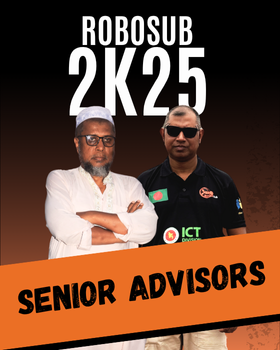
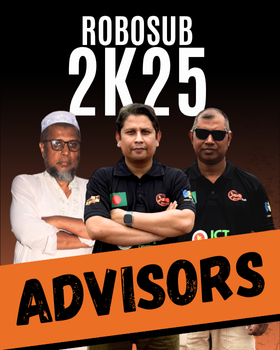
team 1.3

diff --git a/src/components/Team.jsx b/src/components/Team.jsx
@@ -112,8 +112,18 @@ const TeamGrid = styled.div`
 const Team = () => {
   // Team members data organized by sections with additional metadata
   const teamSections = {
-    "Senior Advisor Panel": {
+    "Advisor Panel": {
       members: [
+        {
+          name: "Rasel Ahmed",
+          role: "Advisor",
+          email: "raselahmedcse2012@gmail.com",
+          description: "Assistant Professor at ICT Dept. , Dhaka Residential Model College",
+          github: "NULL",
+          linkedin: "NULL",
+          whatsapp: "https://wa.me/8801720210229",
+          image: "/assets/team/4.png"
+        },
         {
           name: "Prof. Golam Kader",
           role: "Advisor",
@@ -122,7 +132,7 @@ const Team = () => {
           github: "https://github.com/johndoe",
           linkedin: "https://linkedin.com/in/johndoe",
           whatsapp: "https://wa.me/1234567890",
-          image: "/assets/team/3.png"
+          image: "/assets/team/7.png"
         },
         {
           name: "Jahedul Hoque",
@@ -138,18 +148,8 @@ const Team = () => {
       description: "Our leadership team drives the vision and strategy of BengalSub, ensuring we deliver exceptional value to our users while maintaining the highest standards of quality and innovation.",
       image: "/assets/team/advisors.png"
     },
-    "Advisor & Mentor Panel": {
+    "Mentor Panel": {
       members: [
-        {
-          name: "John Doe",
-          role: "CEO",
-          email: "john@example.com",
-          description: "Visionary leader and founder.",
-          github: "https://github.com/johndoe",
-          linkedin: "https://linkedin.com/in/johndoe",
-          whatsapp: "https://wa.me/1234567890",
-          image: "/assets/team/4.png"
-        },
         {
           name: "Jane Smith",
           role: "CTO",
@@ -163,6 +163,42 @@ const Team = () => {
       ],
       description: "Our leadership team drives the vision and strategy of BengalSub, ensuring we deliver exceptional value to our users while maintaining the highest standards of quality and innovation.",
       image: "/assets/team/mentors.png"
+    },
+    "Tech Autocrats": {
+      members: [
+        {
+          name: "An Nafew",
+          role: "Project Manager",
+          email: "annafewdrmc@gmail.com",
+          description: "Chief Executive Officer and Project Manager at Team BengalSub",
+          github: "NULL",
+          linkedin: "https://www.linkedin.com/in/an-nafew-72053a254 ",
+          whatsapp: " https://wa.me/8801886892326",
+          image: "/assets/team/1.png"
+        },
+        {
+          name: "Rubaiyat H Rahman",
+          role: "Software Team Member",
+          email: "rubaiyathrahman.robo@gmail.com",
+          description: "Managing Director",
+          github: "https://github.com/Rubaiyat29",
+          linkedin: "https://www.linkedin.com/in/rubaiyat-h-rahman-10211a263?utm_source=share&utm_campaign=share_via&utm_content=profile&utm_medium=android_app",
+          whatsapp: " https://wa.me/8801827131041",
+          image: "/assets/team/2.png"
+        },
+        {
+          name: "Hasin Israque Chowdhury Taha",
+          role: "Electrical Team Member",
+          email: "tahahasin0@gmail.com",
+          description: "Chief Technology Officer",
+          github: "https://github.com/Taha-the-coder",
+          linkedin: "https://www.linkedin.com/in/hasin-israque-chowdhury-taha-b47173360",
+          whatsapp: " https://wa.me/8801814223746",
+          image: "/assets/team/3.png"
+        },
+      ],
+      description: "Our leadership team drives the vision and strategy of BengalSub, ensuring we deliver exceptional value to our users while maintaining the highest standards of quality and innovation.",
+      image: "/assets/team/autocrats.png"
     },
     "Design Team": {
       members: [

diff --git a/src/components/TeamCard.jsx b/src/components/TeamCard.jsx
@@ -55,7 +55,7 @@ const StyledWrapper = styled.div`
   }
 
   .card .mail svg {
-    stroke: #fbb9b6;
+    stroke: #9f745e;
     stroke-width: 3px;
   }
 
@@ -71,7 +71,7 @@ const StyledWrapper = styled.div`
     left: 3px;
     border-radius: 29px;
     z-index: 1;
-    border: 0px solid #fbb9b6;
+    border: 0px solid #9f745e;
     overflow: hidden;
     transition: all 0.5s ease-in-out 0.2s, z-index 0.5s ease-in-out 0.2s;
   }
@@ -102,7 +102,7 @@ const StyledWrapper = styled.div`
     bottom: 3px;
     left: 3px;
     right: 3px;
-    background: #fbb9b6;
+    background: #9f745e;
     top: 80%;
     border-radius: 29px;
     z-index: 2;
@@ -116,7 +116,9 @@ const StyledWrapper = styled.div`
     bottom: 0;
     left: 1.5rem;
     right: 1.5rem;
-    height: 160px;
+    height: 175px;
+    overflow-y: auto;
+    padding-right: 0.5rem;
   }
 
   .card .bottom .content .name {
@@ -164,7 +166,7 @@ const StyledWrapper = styled.div`
 
   .card .bottom .bottom-bottom .button {
     background: white;
-    color: #fbb9b6;
+    color: #9f745e;
     border: none;
     border-radius: 20px;
     font-size: 0.6rem;
@@ -195,7 +197,7 @@ const StyledWrapper = styled.div`
     left: 10px;
     border-radius: 50%;
     z-index: 3;
-    border: 7px solid #fbb9b6;
+    border: 7px solid #9f745e;
     box-shadow: rgba(96, 75, 74, 0.1882352941) 0px 5px 5px 0px;
     transition: all 0.5s ease-in-out, z-index 0.5s ease-in-out 0.1s;
   }
